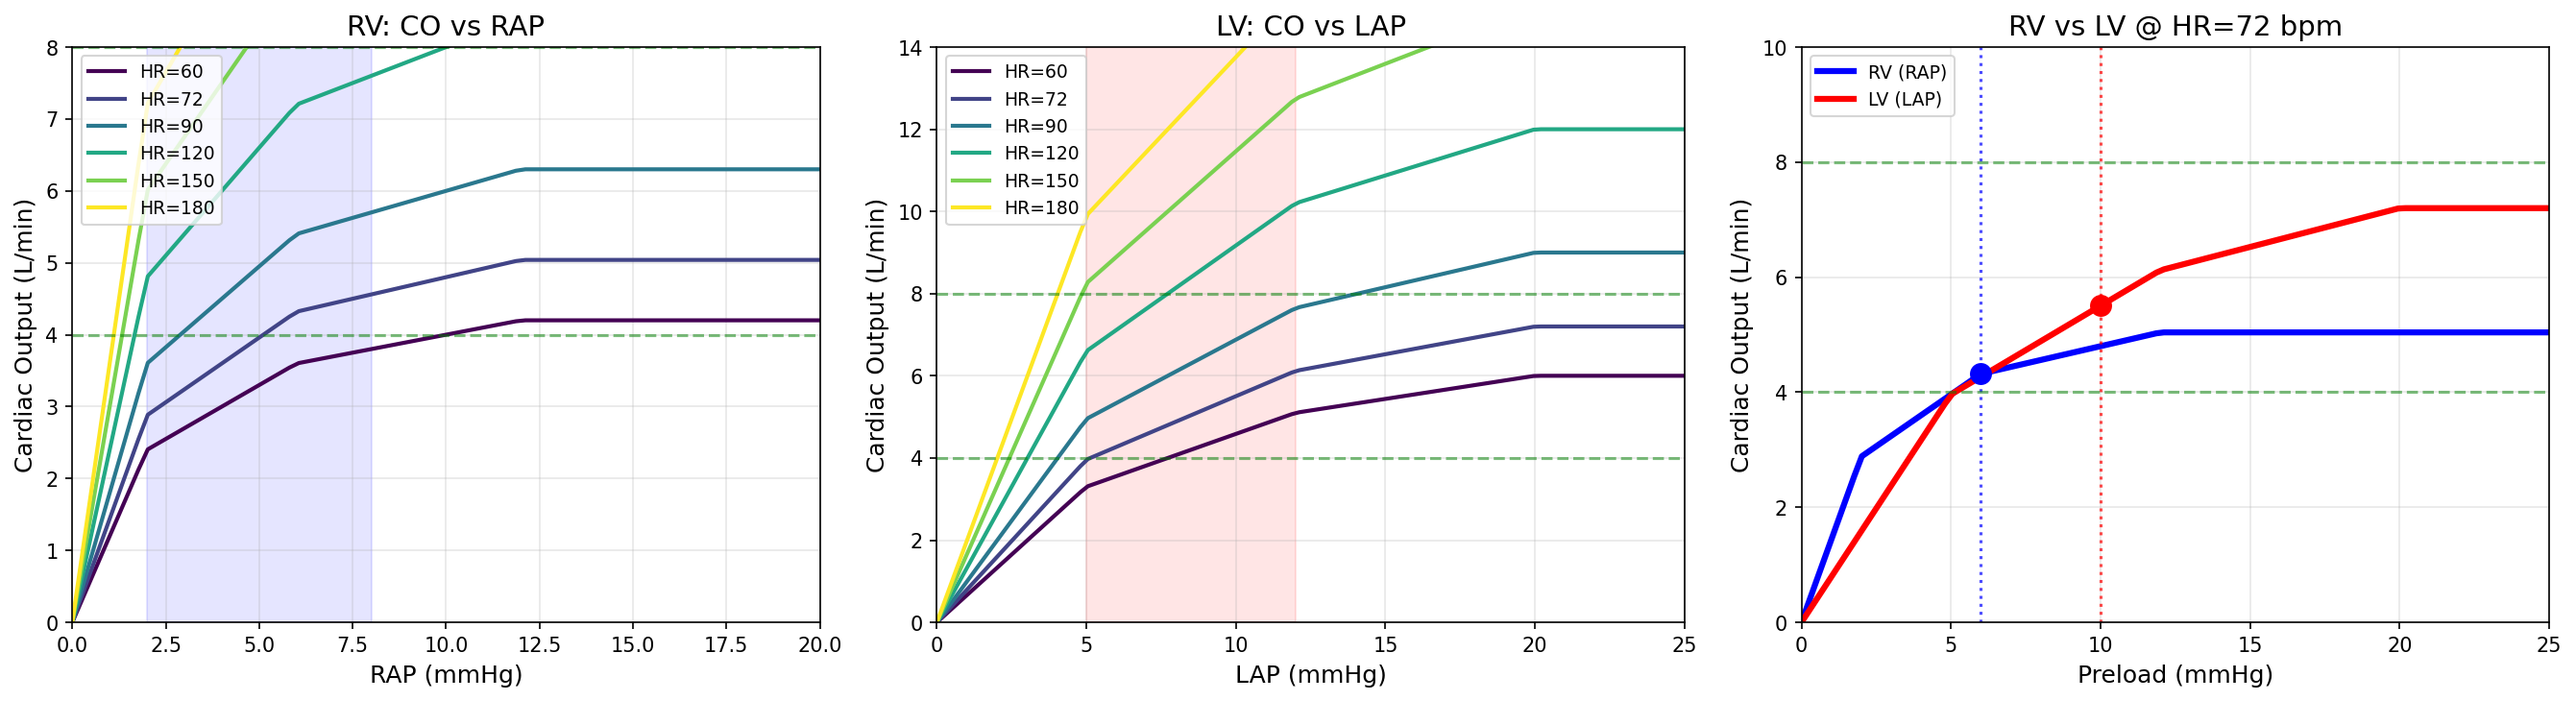
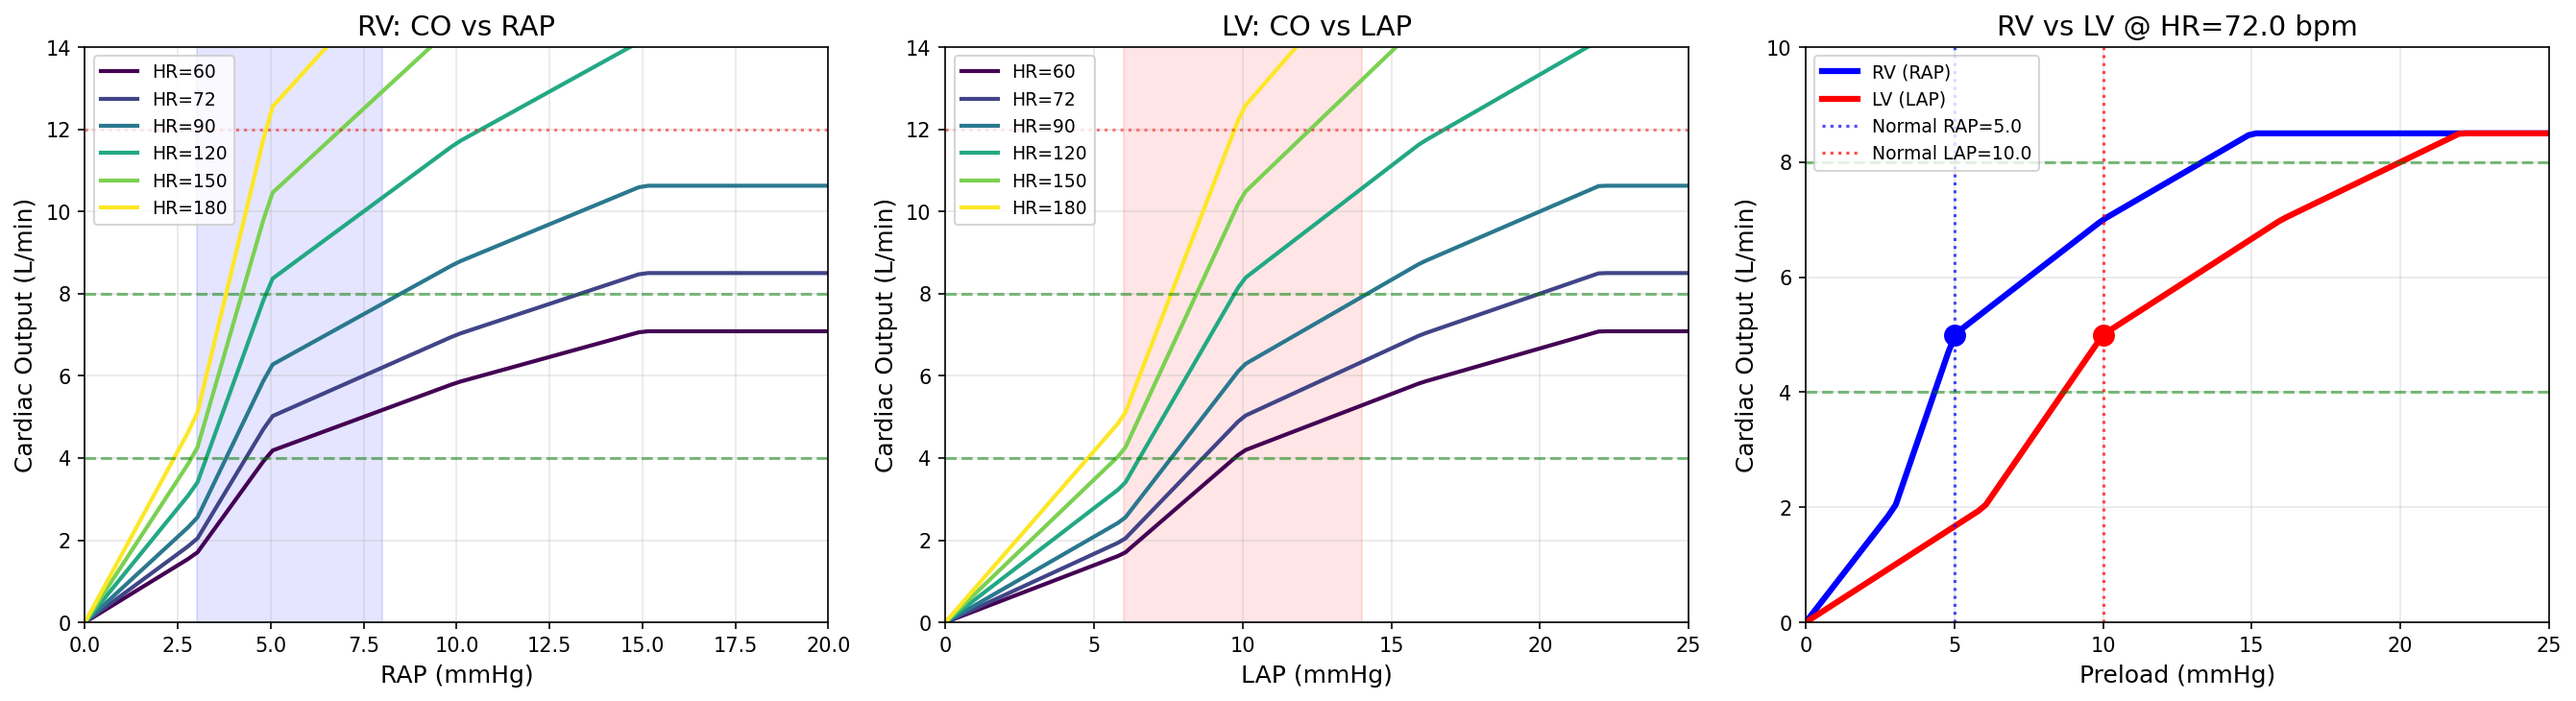
improve code

diff --git a/scripts/plot_starling.py b/scripts/plot_starling.py
@@ -6,9 +6,12 @@ import numpy as np
 
 # RUN:      python3 /workspaces/HeartController/scripts/plot_starling.py
 
-# Starling curve points (from C++ code)
-rv_points = [(0,0), (2,40), (6,60), (12,70)]
-lv_points = [(0,0), (5,55), (12,85), (20,100)]
+
+
+
+# ========== DINA NYA STARLING-KURVOR (CO i L/min vid HR=72) ==========
+rv_points = [(0.0, 0.0), (3.0, 2.0), (5.0, 5.0), (10.0, 7.0), (15.0, 8.5)]
+lv_points = [(0.0, 0.0), (6.0, 2.0), (10.0, 5.0), (16.0, 7.0), (22.0, 8.5)]
 
 def evaluate(preload, points):
     x, y = zip(*points)
@@ -18,7 +21,7 @@ def evaluate(preload, points):
         if x[i] <= preload <= x[i+1]:
             t = (preload - x[i]) / (x[i+1] - x[i])
             return y[i] + t * (y[i+1] - y[i])
-    return 0
+    return 0.0
 
 # Preload range
 preload_range = np.linspace(0, 25, 100)
@@ -27,81 +30,82 @@ colors = plt.cm.viridis(np.linspace(0, 1, len(hr_values)))
 
 # ========== SKRIV UT VÄRDEN ==========
 print("\n" + "="*100)
-print("STARLING CURVE VALUES - PRELOAD TO STROKE VOLUME")
+print("STARLING CURVE VALUES - PRELOAD TO CARDIAC OUTPUT (at HR=72)")
 print("="*100)
 
 print("\nRIGHT VENTRICLE (RV):")
 print("-"*50)
-print(f"{'RAP (mmHg)':<12} {'SV (ml)':<10}")
+print(f"{'RAP (mmHg)':<12} {'CO (L/min)':<10}")
 print("-"*50)
-for rap in [0, 2, 4, 6, 8, 10, 12, 15, 20]:
-    sv = evaluate(rap, rv_points)
-    print(f"{rap:<12.1f} {sv:<10.1f}")
+for rap in [0, 2, 3, 4, 5, 8, 10, 12, 15]:
+    co = evaluate(rap, rv_points)
+    print(f"{rap:<12.1f} {co:<10.1f}")
 
 print("\nLEFT VENTRICLE (LV):")
 print("-"*50)
-print(f"{'LAP (mmHg)':<12} {'SV (ml)':<10}")
+print(f"{'LAP (mmHg)':<12} {'CO (L/min)':<10}")
 print("-"*50)
-for lap in [0, 3, 5, 8, 10, 12, 15, 18, 20, 25]:
-    sv = evaluate(lap, lv_points)
-    print(f"{lap:<12.1f} {sv:<10.1f}")
+for lap in [0, 5, 6, 8, 10, 12, 16, 19, 22]:
+    co = evaluate(lap, lv_points)
+    print(f"{lap:<12.1f} {co:<10.1f}")
 
 print("\n" + "="*100)
-print("CARDIAC OUTPUT (L/min) = SV × HR / 1000")
+print("CARDIAC OUTPUT (L/min) AT DIFFERENT HR")
 print("="*100)
 
 # Tabell för RV
 print("\nRIGHT VENTRICLE - CO at different HR:")
-print("-"*80)
+print("-"*90)
 header = f"{'RAP':<6}"
 for hr in hr_values:
-    header += f"HR={hr:<4} "
+    header += f"HR={hr:<5}"
 print(header)
-print("-"*80)
-for rap in [2, 4, 6, 8, 10, 12, 15]:
-    sv = evaluate(rap, rv_points)
+print("-"*90)
+for rap in [2, 3, 4, 5, 8, 10, 12, 15]:
+    coAt72 = evaluate(rap, rv_points)
     row = f"{rap:<6.1f}"
     for hr in hr_values:
-        co = (sv * hr) / 1000.0
+        co = coAt72 * (hr / 72.0)
         row += f"{co:<8.2f}"
     print(row)
 
 # Tabell för LV
 print("\nLEFT VENTRICLE - CO at different HR:")
-print("-"*80)
+print("-"*90)
 header = f"{'LAP':<6}"
 for hr in hr_values:
-    header += f"HR={hr:<4} "
+    header += f"HR={hr:<5}"
 print(header)
-print("-"*80)
-for lap in [3, 5, 8, 10, 12, 15, 18, 20]:
-    sv = evaluate(lap, lv_points)
+print("-"*90)
+for lap in [5, 6, 8, 10, 12, 16, 19, 22]:
+    coAt72 = evaluate(lap, lv_points)
     row = f"{lap:<6.1f}"
     for hr in hr_values:
-        co = (sv * hr) / 1000.0
+        co = coAt72 * (hr / 72.0)
         row += f"{co:<8.2f}"
     print(row)
 
 print("\n" + "="*100)
 print("NORMAL VALUES COMPARISON")
 print("="*100)
-rap_normal = 6.0
+rap_normal = 5.0
 lap_normal = 10.0
 hr_normal = 72.0
 
-sv_rv_normal = evaluate(rap_normal, rv_points)
-sv_lv_normal = evaluate(lap_normal, lv_points)
-co_rv_normal = (sv_rv_normal * hr_normal) / 1000.0
-co_lv_normal = (sv_lv_normal * hr_normal) / 1000.0
+co_rv_normal = evaluate(rap_normal, rv_points)
+co_lv_normal = evaluate(lap_normal, lv_points)
 
 print(f"\nAt normal HR={hr_normal:.0f} bpm:")
-print(f"  RAP = {rap_normal:.1f} mmHg → SV_RV = {sv_rv_normal:.1f} ml → CO_RV = {co_rv_normal:.2f} L/min")
-print(f"  LAP = {lap_normal:.1f} mmHg → SV_LV = {sv_lv_normal:.1f} ml → CO_LV = {co_lv_normal:.2f} L/min")
+print(f"  RAP = {rap_normal:.1f} mmHg → CO_RV = {co_rv_normal:.2f} L/min")
+print(f"  LAP = {lap_normal:.1f} mmHg → CO_LV = {co_lv_normal:.2f} L/min")
 
-if abs(co_rv_normal - co_lv_normal) < 0.5:
-    print(f"  ✅ Balanced: CO_RV ≈ CO_LV (diff = {abs(co_rv_normal - co_lv_normal):.2f} L/min)")
+diff = abs(co_rv_normal - co_lv_normal)
+if diff < 0.5:
+    print(f"  ✅ Balanced: CO_RV ≈ CO_LV (diff = {diff:.2f} L/min)")
+elif diff < 1.0:
+    print(f"  ⚠  Slightly unbalanced: diff = {diff:.2f} L/min")
 else:
-    print(f"  ⚠  UNBALANCED! CO_RV vs CO_LV diff = {abs(co_rv_normal - co_lv_normal):.2f} L/min")
+    print(f"  🚨 UNBALANCED! CO_RV vs CO_LV diff = {diff:.2f} L/min")
 
 print("\n" + "="*100)
 
@@ -111,8 +115,7 @@ fig, axes = plt.subplots(1, 3, figsize=(18, 5))
 # Plot 1: RV CO vs RAP
 ax1 = axes[0]
 for hr, color in zip(hr_values, colors):
-    rv_sv = [evaluate(p, rv_points) for p in preload_range]
-    co = (np.array(rv_sv) * hr) / 1000.0
+    co = [evaluate(p, rv_points) * (hr / 72.0) for p in preload_range]
     ax1.plot(preload_range, co, color=color, linewidth=2, label=f'HR={hr}')
 ax1.set_xlabel('RAP (mmHg)', fontsize=12)
 ax1.set_ylabel('Cardiac Output (L/min)', fontsize=12)
@@ -120,16 +123,16 @@ ax1.set_title('RV: CO vs RAP', fontsize=14)
 ax1.legend(loc='upper left', fontsize=9)
 ax1.grid(True, alpha=0.3)
 ax1.set_xlim(0, 20)
-ax1.set_ylim(0, 8)
-ax1.axhline(y=4, color='green', linestyle='--', alpha=0.5)
-ax1.axhline(y=8, color='green', linestyle='--', alpha=0.5)
-ax1.axvspan(2, 8, alpha=0.1, color='blue')
+ax1.set_ylim(0, 14)
+ax1.axhline(y=4, color='green', linestyle='--', alpha=0.5, label='Min normal')
+ax1.axhline(y=8, color='green', linestyle='--', alpha=0.5, label='Max normal')
+ax1.axvspan(3, 8, alpha=0.1, color='blue', label='Normal RAP')
+ax1.axhline(y=12, color='red', linestyle=':', alpha=0.5, label='MAX_CO')
 
 # Plot 2: LV CO vs LAP
 ax2 = axes[1]
 for hr, color in zip(hr_values, colors):
-    lv_sv = [evaluate(p, lv_points) for p in preload_range]
-    co = (np.array(lv_sv) * hr) / 1000.0
+    co = [evaluate(p, lv_points) * (hr / 72.0) for p in preload_range]
     ax2.plot(preload_range, co, color=color, linewidth=2, label=f'HR={hr}')
 ax2.set_xlabel('LAP (mmHg)', fontsize=12)
 ax2.set_ylabel('Cardiac Output (L/min)', fontsize=12)
@@ -140,21 +143,19 @@ ax2.set_xlim(0, 25)
 ax2.set_ylim(0, 14)
 ax2.axhline(y=4, color='green', linestyle='--', alpha=0.5)
 ax2.axhline(y=8, color='green', linestyle='--', alpha=0.5)
-ax2.axvspan(5, 12, alpha=0.1, color='red')
+ax2.axvspan(6, 14, alpha=0.1, color='red', label='Normal LAP')
+ax2.axhline(y=12, color='red', linestyle=':', alpha=0.5)
 
 # Plot 3: RV + LV @ HR=72
 ax3 = axes[2]
-hr_normal = 72
-rv_sv = [evaluate(p, rv_points) for p in preload_range]
-lv_sv = [evaluate(p, lv_points) for p in preload_range]
-co_rv = (np.array(rv_sv) * hr_normal) / 1000.0
-co_lv = (np.array(lv_sv) * hr_normal) / 1000.0
+co_rv = [evaluate(p, rv_points) for p in preload_range]
+co_lv = [evaluate(p, lv_points) for p in preload_range]
 ax3.plot(preload_range, co_rv, 'b-', linewidth=3, label='RV (RAP)')
 ax3.plot(preload_range, co_lv, 'r-', linewidth=3, label='LV (LAP)')
-ax3.axvline(x=6, color='blue', linestyle=':', alpha=0.7)
-ax3.axvline(x=10, color='red', linestyle=':', alpha=0.7)
-ax3.scatter([6], [co_rv_normal], color='blue', s=100, zorder=5)
-ax3.scatter([10], [co_lv_normal], color='red', s=100, zorder=5)
+ax3.axvline(x=rap_normal, color='blue', linestyle=':', alpha=0.7, label=f'Normal RAP={rap_normal}')
+ax3.axvline(x=lap_normal, color='red', linestyle=':', alpha=0.7, label=f'Normal LAP={lap_normal}')
+ax3.scatter([rap_normal], [co_rv_normal], color='blue', s=100, zorder=5)
+ax3.scatter([lap_normal], [co_lv_normal], color='red', s=100, zorder=5)
 ax3.set_xlabel('Preload (mmHg)', fontsize=12)
 ax3.set_ylabel('Cardiac Output (L/min)', fontsize=12)
 ax3.set_title(f'RV vs LV @ HR={hr_normal} bpm', fontsize=14)
@@ -170,3 +171,7 @@ plt.savefig('/workspaces/HeartController/scripts/starling_curves.png', dpi=150, 
 plt.show()
 
 print("\n✅ Plot saved to: /workspaces/HeartController/scripts/starling_curves.png")
+print("\n📊 SUMMARY:")
+print(f"   Normal RAP = {rap_normal} mmHg → CO_RV = {co_rv_normal:.1f} L/min")
+print(f"   Normal LAP = {lap_normal} mmHg → CO_LV = {co_lv_normal:.1f} L/min")
+print(f"   Balance = {co_rv_normal/co_lv_normal:.2f}")

diff --git a/src/model/CirculationModel.h b/src/model/CirculationModel.h
@@ -9,7 +9,7 @@
 class CirculationModel {
 public:
     CirculationModel();
-    void update(float hr, float coRV, float coLV);
+    void update(float hr, float coRV, float coLV, float dt);
     void reset();
     
     float getRAP() const;
@@ -21,22 +21,34 @@ public:
     float getBalance() const;
     
 private:
+    // Intitial values 
     static constexpr float DEFAULT_HR = 72.0f;
     static constexpr float DEFAULT_RAP = 4.0f;
     static constexpr float DEFAULT_LAP = 8.0f;
     static constexpr float DEFAULT_PAP = 20.0f;
     static constexpr float DEFAULT_AOP = 90.0f;
     
+    // --- Safety Limits ---
+    // Increase MIN to prevent suction alarms too early; Decrease MAX to cap how high pressure can go.
     static constexpr float MIN_RAP = 1.0f;
     static constexpr float MAX_RAP = 25.0f;
-    static constexpr float MIN_LAP = 2.0f;
+    static constexpr float MIN_LAP = 1.0f;
     static constexpr float MAX_LAP = 35.0f;
+    static constexpr float MAX_CO = 12.0f; 
+
     
-    static constexpr float SYSTEMIC_RESISTANCE = 1200.0f;
-    static constexpr float PULMONARY_RESISTANCE = 250.0f;  // ← ÖKAD från 200
+    // --- Vascular Resistance ---
+    // Higher values = Higher actual pressures (AoP/PAP) for the same CO.
+    static constexpr float SYSTEMIC_RESISTANCE = 1200.0f;  // Recistance of body, affects AOP
+    static constexpr float PULMONARY_RESISTANCE = 250.0f;  // Recistance of lungs, affects PAP
     
-    static constexpr float AOP_EFFECT_ON_RAP = 0.02f;
-    static constexpr float PAP_EFFECT_ON_LAP = 0.03f;
+
+    // --- Venous Return (Feedback) ---
+    // These act as the "faucet" for blood returning to the heart.
+    // INCREASE these if RAP/LAP stay too low; DECREASE these if RAP/LAP "run away" to MAX values.
+
+    static constexpr float AOP_EFFECT_ON_RAP = 0.001f;
+    static constexpr float PAP_EFFECT_ON_LAP = 0.001f;
     
     float m_hr;
     float m_rap;

diff --git a/src/model/CirculationModel.cpp b/src/model/CirculationModel.cpp
@@ -20,25 +20,30 @@ void CirculationModel::reset() {
     m_coLV = 5.0f;
 }
 
-void CirculationModel::update(float hr, float coRV, float coLV) {
+void CirculationModel::update(float hr, float coRV, float coLV, float dt) { 
     m_hr = hr;
     m_coRV = coRV;
     m_coLV = coLV;
     
-    m_pap = (coRV * PULMONARY_RESISTANCE) / 80.0f;
+    // 1. Beräkna tryck (mmHg) 
+    m_pap = (coRV * PULMONARY_RESISTANCE) / 80.0f; 
     m_aop = (coLV * SYSTEMIC_RESISTANCE) / 80.0f;
     
-    float balanceError = (coRV - coLV) * 0.5f;
-    m_lap += balanceError;
-    m_rap -= balanceError;
+    // 2. Volymförändring (Vätskekontinuitet) 
+    float flowImbalance = (coRV - coLV) * dt ; 
     
-    // NEGATIV FEEDBACK - MINUS, inte plus!
-    m_rap -= m_aop * AOP_EFFECT_ON_RAP;   // Högre AoP → lägre RAP
-    m_lap -= m_pap * PAP_EFFECT_ON_LAP;   // Högre PAP → lägre LAP
+    m_lap += flowImbalance; 
+    m_rap -= flowImbalance; 
     
+    // 3. Venöst återflöde 
+    m_rap += (m_aop * AOP_EFFECT_ON_RAP) * dt ; 
+    m_lap += (m_pap * PAP_EFFECT_ON_LAP) * dt ;
+    
+    // 4. Håll värdena inom rimliga gränser
     m_rap = clamp(m_rap, MIN_RAP, MAX_RAP);
     m_lap = clamp(m_lap, MIN_LAP, MAX_LAP);
 }
+
 
 float CirculationModel::clamp(float value, float min, float max) const {
     return std::max(min, std::min(max, value));

diff --git a/src/model/StarlingCurve.cpp b/src/model/StarlingCurve.cpp
@@ -4,20 +4,20 @@
 std::vector<std::pair<float, float>> StarlingCurve::getRVPoints() {
     return {
         {0.0f, 0.0f},
-        {2.0f, 4.0f},    // Öka från 3.0
-        {4.0f, 5.0f},    // Behåll 5.0
-        {7.0f, 6.5f},    // Öka från 6.5
-        {12.0f, 8.0f}    // Behåll 8.0
+        {3.0f, 2.0f},    
+        {4.0f, 5.0f},    
+        {10.0f, 7.0f},    
+        {15.0f, 8.5f}    
     };
 }
 
 std::vector<std::pair<float, float>> StarlingCurve::getLVPoints() {
     return {
         {0.0f, 0.0f},
-        {5.0f, 3.5f},
+        {6.0f, 2.0f},
         {8.0f, 5.0f},
-        {14.0f, 6.5f},
-        {22.0f, 8.0f}
+        {16.0f, 7.0f},
+        {22.0f, 8.5f}
     };
 }
 
@@ -44,5 +44,5 @@ float StarlingCurve::evaluate(float preload, float hr) const {
             }
         }
     }
-    return coAt72 * (hr / 72.0f);
+    return coAt72 * (hr / 72.0f);   // Scale 
 }

diff --git a/src/controller/Simulation.cpp b/src/controller/Simulation.cpp
@@ -76,7 +76,7 @@ void Simulation::run() {
         if (measuredRAP < SUCTION_THRESHOLD) m_rightPump.reduceSpeed(0.8f);
         if (measuredLAP < SUCTION_THRESHOLD) m_leftPump.reduceSpeed(0.8f);
         
-        m_circulation.update(static_cast<float>(m_heartRate), actualFlowRV, actualFlowLV);
+        m_circulation.update(static_cast<float>(m_heartRate), actualFlowRV, actualFlowLV, dt);
         
         float errorRight = coRV - actualFlowRV;
         float errorLeft = coLV - actualFlowLV;

diff --git a/src/main.cpp b/src/main.cpp
@@ -4,7 +4,9 @@
  * @brief Entry point for TAH simulation. It creates the Simulation controller and starts the
  * simulation loop.
  * 
- * bash:  run_tah
+ * bygg & kör: cd /workspaces/HeartController && rm -rf build && mkdir build && cd build && cmake -DBUILD_TESTS=OFF .. && make && ./bin/tah_simulator
+
+ * kör:  cd /workspaces/HeartController/build && make tah_simulator && ./bin/tah_simulator
  */
 
 #include "Simulation.h"

diff --git a/src/model/Motor.cpp b/src/model/Motor.cpp
@@ -20,6 +20,8 @@ float Motor::flowToRPM(float flow) const {
     return std::max(0.0f, std::min(MAX_RPM, rpm));
 }
 
+
+// Calculates ACTUAL CO
 float Motor::rpmToFlow(float rpm) const {
     return (rpm / MAX_RPM) * m_maxFlow;
 }
